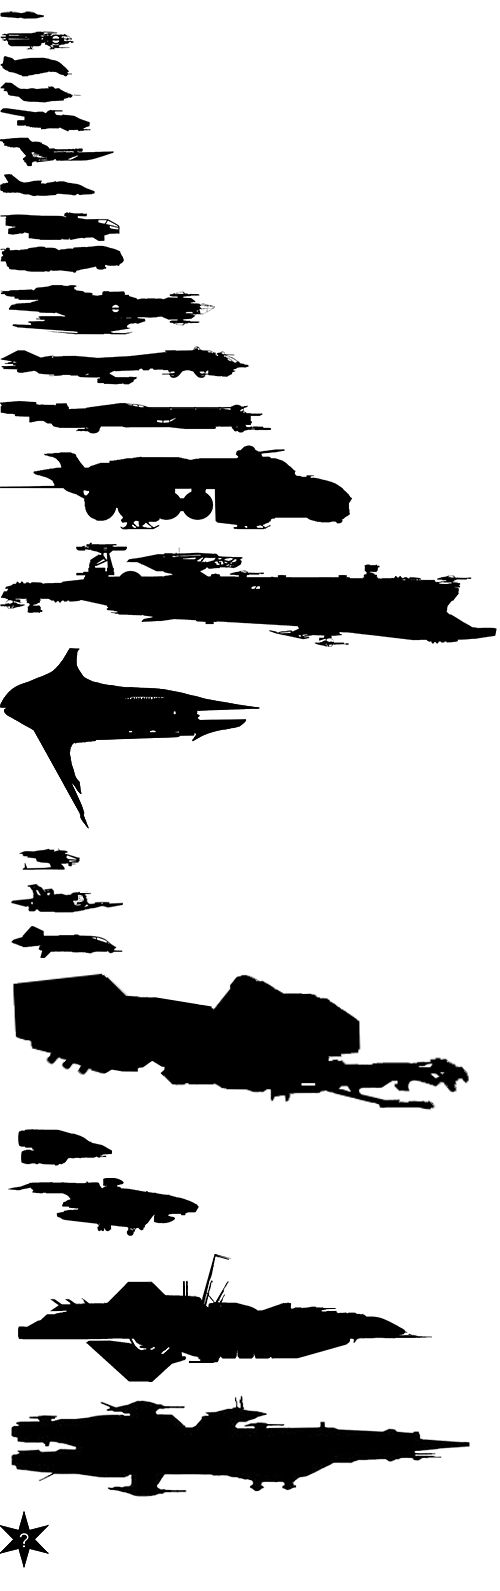
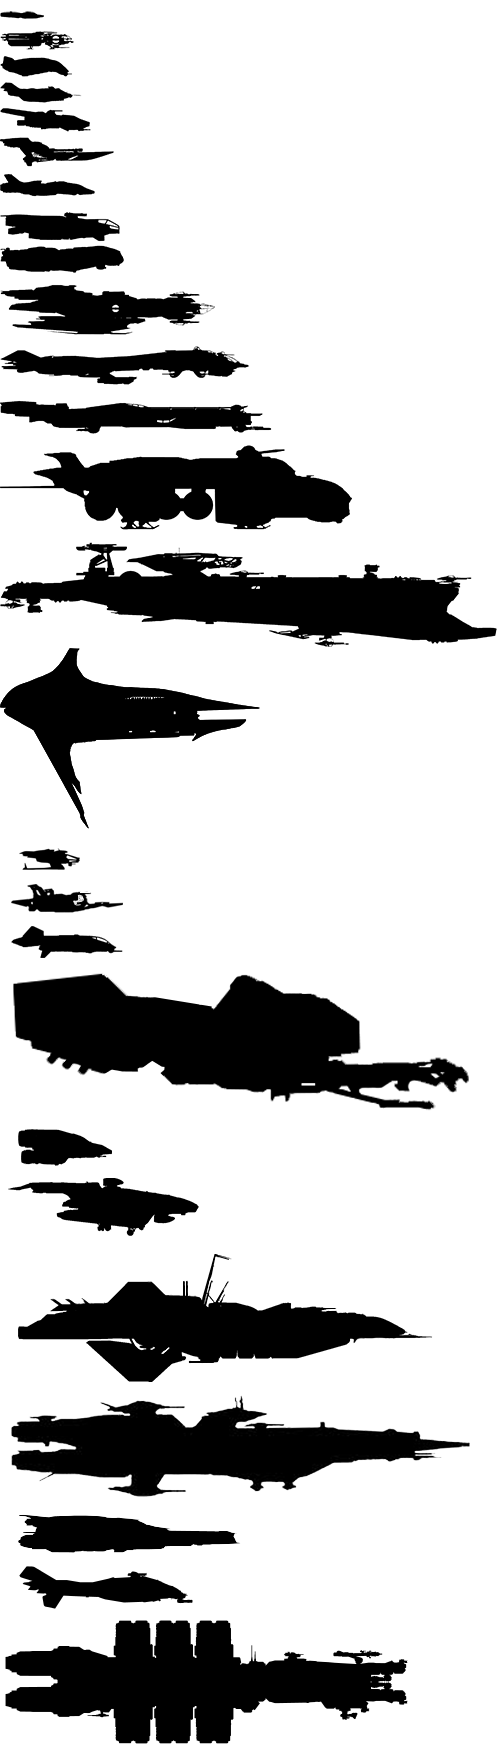
Add Vanguard, Orion, and 890 Jump

diff --git a/index.html b/index.html
@@ -56,6 +56,8 @@
             <dd><input type="number" id="CutlassShipNumber" data-shipName="Cutlass" data-shipClassName="Cutlass" /></dd>
             <dt>Freelancer</dt>
             <dd><input type="number" id="FreelancerShipNumber" data-shipName="Freelancer" data-shipClassName="Freelancer"/></dd>
+			<dt>Vanguard</td>
+			<dd><input type="number" id="VanguardShipNumber" data-shipName="Vanguard" data-shipClassName="Vanguard"/></dd>
             <dt>Redeemer</td>
 			<dd><input type="number" id="RedeemerShipNumber" data-shipName="Redeemer" data-shipClassName="Redeemer"/></dd>
             <dt>Constellation</dt>
@@ -70,6 +72,9 @@
             <dt>Merchantman</dt>
             <dd><input type="number" id="MerchantmanShipNumber" data-shipname="Merchantman" data-shipclassname="Merchantman" /></dd>
             
+			<dt>890 Jump</dt>
+			<dd><input type="number" id="890JumpShipNumber" data-shipname="890 Jump" data-shipclassname="Jump" /></dd>
+            
             <dt>Starfarer</dt>
             <dd><input type="number" id="StarfarerShipNumber" data-shipName="Starfarer" data-shipClassName="Starfarer"/></dd>
             
@@ -82,6 +87,9 @@
 			
 			<dt>Carrack</td>
 			<dd><input type="number" id="CarrackShipNumber" data-shipName="Carrack" data-shipClassName="Carrack"/></dd>
+			
+			<dt>Orion</td>
+			<dd><input type="number" id="OrionShipNumber" data-shipName="Orion" data-shipClassName="Orion"/></dd>
 			
 			<dt>Javelin</td>
 			<dd><input type="number" id="JavelinShipNumber" data-shipName="Javelin" data-shipClassName="Javelin"/></dd>

diff --git a/content/styles/Ships.css b/content/styles/Ships.css
@@ -139,4 +139,18 @@
     width: 480px;
     background-position: -12px -1388px;
 }
-
+.Jump{
+    height: 38px;
+    width: 222px;
+    background-position: -18px -1515px;
+}
+.Vanguard{
+    height: 43px;
+    width: 174px;
+    background-position: -19px -1566px;
+}
+.Orion{
+    height: 124px;
+    width: 403px;
+    background-position: -5px -1620px;
+}
